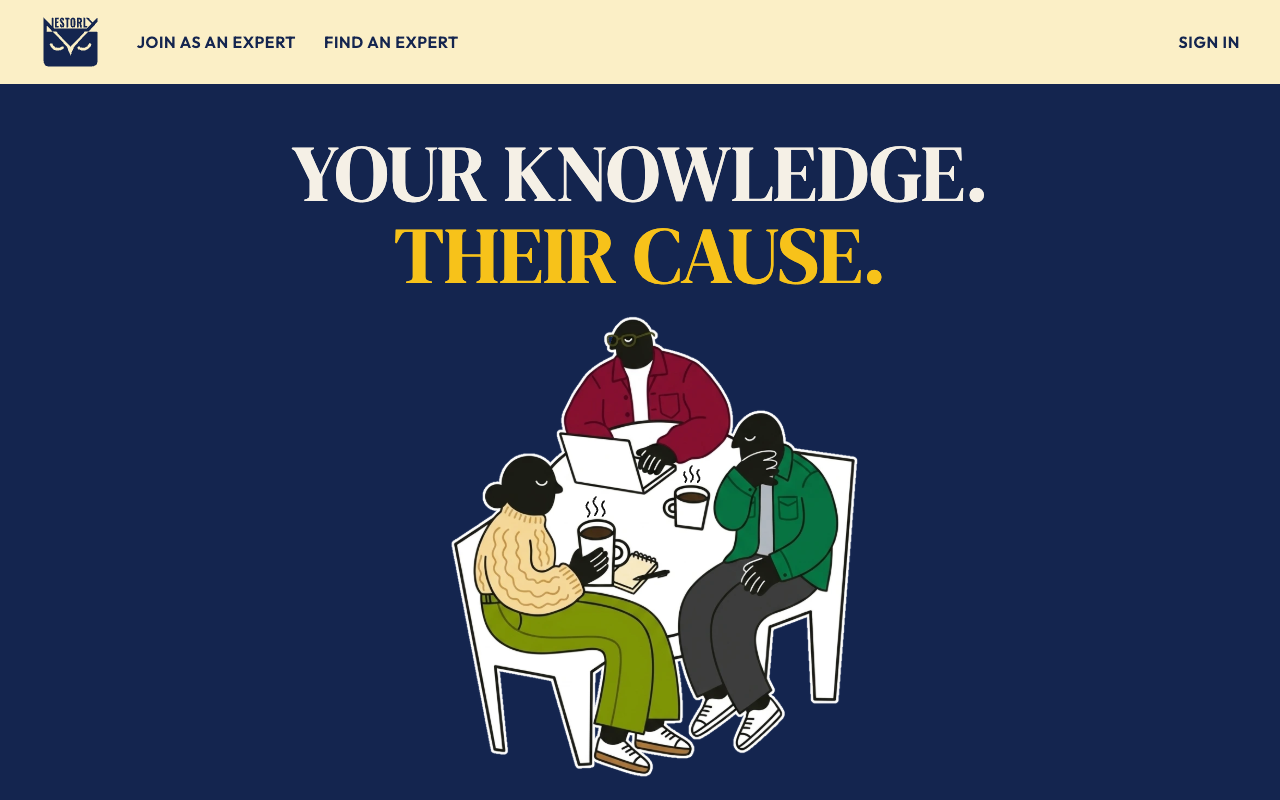
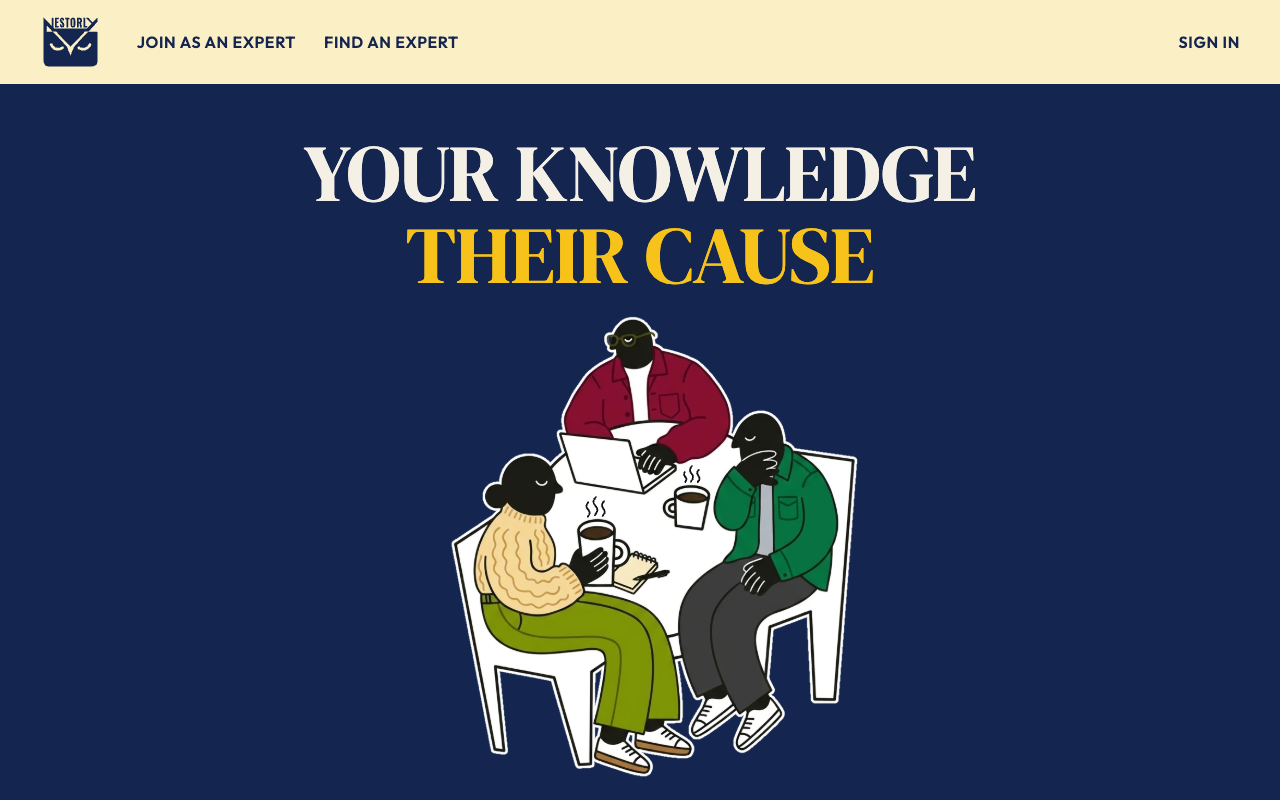
Homepage: no full stops in the headline; refresh cover image

Changed region(s): [[0.2188, 0.1562, 0.7812, 0.25], [0.3125, 0.2812, 0.6875, 0.375]]

diff --git a/index.html b/index.html
@@ -4,14 +4,14 @@
 <meta property="og:description" content="Experts share their knowledge; firms donate 100% to the expert’s chosen charity.">
 <meta property="og:url" content="https://luke-w-l-m.github.io/nestorly-prototype/">
 <meta property="og:type" content="website">
-<meta property="og:image" content="https://luke-w-l-m.github.io/nestorly-prototype/og-image.png?v=3">
+<meta property="og:image" content="https://luke-w-l-m.github.io/nestorly-prototype/og-image.png?v=4">
 <meta property="og:image:width" content="1200">
 <meta property="og:image:height" content="627">
 <meta property="og:image:alt" content="Specialise for charity: three people talking over coffee at a round table">
 <meta name="twitter:card" content="summary_large_image">
 <meta name="twitter:title" content="Nestorly: Specialise for charity">
 <meta name="twitter:description" content="Experts share their knowledge; firms donate 100% to the expert’s chosen charity.">
-<meta name="twitter:image" content="https://luke-w-l-m.github.io/nestorly-prototype/og-image.png?v=3">
+<meta name="twitter:image" content="https://luke-w-l-m.github.io/nestorly-prototype/og-image.png?v=4">
 <meta name="twitter:image:alt" content="Specialise for charity: three people talking over coffee at a round table"><title>Nestorly</title>
 <title>Nestorly Prototype</title>
 <meta name="claude:viewport-fit-sides" content="cover">
@@ -308,7 +308,7 @@ html{scroll-snap-type:y mandatory}
 
 <section class="snap phero gut" id="top" aria-label="Opening screen">
   <div class="inner">
-    <h1 class="ptitle"><span class="l1">Your knowledge.</span> <span class="l2">Their cause.</span></h1>
+    <h1 class="ptitle"><span class="l1">Your knowledge</span> <span class="l2">Their cause</span></h1>
     <div class="part">
       <picture>
         <source srcset="images/hero-art-outline.webp" type="image/webp">

diff --git a/create-profile.html b/create-profile.html
@@ -4,14 +4,14 @@
 <meta property="og:description" content="Experts share their knowledge; firms donate 100% to the expert’s chosen charity.">
 <meta property="og:url" content="https://luke-w-l-m.github.io/nestorly-prototype/create-profile.html">
 <meta property="og:type" content="website">
-<meta property="og:image" content="https://luke-w-l-m.github.io/nestorly-prototype/og-image.png?v=3">
+<meta property="og:image" content="https://luke-w-l-m.github.io/nestorly-prototype/og-image.png?v=4">
 <meta property="og:image:width" content="1200">
 <meta property="og:image:height" content="627">
 <meta property="og:image:alt" content="Specialise for charity: three people talking over coffee at a round table">
 <meta name="twitter:card" content="summary_large_image">
 <meta name="twitter:title" content="Nestorly: Specialise for charity">
 <meta name="twitter:description" content="Experts share their knowledge; firms donate 100% to the expert’s chosen charity.">
-<meta name="twitter:image" content="https://luke-w-l-m.github.io/nestorly-prototype/og-image.png?v=3">
+<meta name="twitter:image" content="https://luke-w-l-m.github.io/nestorly-prototype/og-image.png?v=4">
 <meta name="twitter:image:alt" content="Specialise for charity: three people talking over coffee at a round table">
 <title>Create your profile · Nestorly</title>
 <link rel="stylesheet" href="https://fonts.googleapis.com/css2?family=DM+Serif+Display&family=Outfit:wght@600;700&family=Source+Sans+3:wght@400;600;700&display=swap">

diff --git a/firm-signup.html b/firm-signup.html
@@ -4,14 +4,14 @@
 <meta property="og:description" content="Experts share their knowledge; firms donate 100% to the expert’s chosen charity.">
 <meta property="og:url" content="https://luke-w-l-m.github.io/nestorly-prototype/firm-signup.html">
 <meta property="og:type" content="website">
-<meta property="og:image" content="https://luke-w-l-m.github.io/nestorly-prototype/og-image.png?v=3">
+<meta property="og:image" content="https://luke-w-l-m.github.io/nestorly-prototype/og-image.png?v=4">
 <meta property="og:image:width" content="1200">
 <meta property="og:image:height" content="627">
 <meta property="og:image:alt" content="Specialise for charity: three people talking over coffee at a round table">
 <meta name="twitter:card" content="summary_large_image">
 <meta name="twitter:title" content="Nestorly: Specialise for charity">
 <meta name="twitter:description" content="Experts share their knowledge; firms donate 100% to the expert’s chosen charity.">
-<meta name="twitter:image" content="https://luke-w-l-m.github.io/nestorly-prototype/og-image.png?v=3">
+<meta name="twitter:image" content="https://luke-w-l-m.github.io/nestorly-prototype/og-image.png?v=4">
 <meta name="twitter:image:alt" content="Specialise for charity: three people talking over coffee at a round table">
 <title>Create a firm account · Nestorly</title>
 <link rel="stylesheet" href="https://fonts.googleapis.com/css2?family=DM+Serif+Display&family=Outfit:wght@600;700&family=Source+Sans+3:wght@400;600;700&display=swap">

diff --git a/expert-dashboard.html b/expert-dashboard.html
@@ -4,14 +4,14 @@
 <meta property="og:description" content="Experts share their knowledge; firms donate 100% to the expert’s chosen charity.">
 <meta property="og:url" content="https://luke-w-l-m.github.io/nestorly-prototype/expert-dashboard.html">
 <meta property="og:type" content="website">
-<meta property="og:image" content="https://luke-w-l-m.github.io/nestorly-prototype/og-image.png?v=3">
+<meta property="og:image" content="https://luke-w-l-m.github.io/nestorly-prototype/og-image.png?v=4">
 <meta property="og:image:width" content="1200">
 <meta property="og:image:height" content="627">
 <meta property="og:image:alt" content="Specialise for charity: three people talking over coffee at a round table">
 <meta name="twitter:card" content="summary_large_image">
 <meta name="twitter:title" content="Nestorly: Specialise for charity">
 <meta name="twitter:description" content="Experts share their knowledge; firms donate 100% to the expert’s chosen charity.">
-<meta name="twitter:image" content="https://luke-w-l-m.github.io/nestorly-prototype/og-image.png?v=3">
+<meta name="twitter:image" content="https://luke-w-l-m.github.io/nestorly-prototype/og-image.png?v=4">
 <meta name="twitter:image:alt" content="Specialise for charity: three people talking over coffee at a round table">
 <title>Your dashboard · Nestorly</title>
 <link rel="stylesheet" href="https://fonts.googleapis.com/css2?family=DM+Serif+Display&family=Outfit:wght@600;700&family=Source+Sans+3:wght@400;600;700&display=swap">

diff --git a/request.html b/request.html
@@ -4,14 +4,14 @@
 <meta property="og:description" content="Experts share their knowledge; firms donate 100% to the expert’s chosen charity.">
 <meta property="og:url" content="https://luke-w-l-m.github.io/nestorly-prototype/request.html">
 <meta property="og:type" content="website">
-<meta property="og:image" content="https://luke-w-l-m.github.io/nestorly-prototype/og-image.png?v=3">
+<meta property="og:image" content="https://luke-w-l-m.github.io/nestorly-prototype/og-image.png?v=4">
 <meta property="og:image:width" content="1200">
 <meta property="og:image:height" content="627">
 <meta property="og:image:alt" content="Specialise for charity: three people talking over coffee at a round table">
 <meta name="twitter:card" content="summary_large_image">
 <meta name="twitter:title" content="Nestorly: Specialise for charity">
 <meta name="twitter:description" content="Experts share their knowledge; firms donate 100% to the expert’s chosen charity.">
-<meta name="twitter:image" content="https://luke-w-l-m.github.io/nestorly-prototype/og-image.png?v=3">
+<meta name="twitter:image" content="https://luke-w-l-m.github.io/nestorly-prototype/og-image.png?v=4">
 <meta name="twitter:image:alt" content="Specialise for charity: three people talking over coffee at a round table">
 <title>Request a conversation · Nestorly</title>
 <link rel="stylesheet" href="https://fonts.googleapis.com/css2?family=DM+Serif+Display&family=Outfit:wght@600;700&family=Source+Sans+3:wght@400;600;700&display=swap">

diff --git a/firm-dashboard.html b/firm-dashboard.html
@@ -4,14 +4,14 @@
 <meta property="og:description" content="Experts share their knowledge; firms donate 100% to the expert’s chosen charity.">
 <meta property="og:url" content="https://luke-w-l-m.github.io/nestorly-prototype/firm-dashboard.html">
 <meta property="og:type" content="website">
-<meta property="og:image" content="https://luke-w-l-m.github.io/nestorly-prototype/og-image.png?v=3">
+<meta property="og:image" content="https://luke-w-l-m.github.io/nestorly-prototype/og-image.png?v=4">
 <meta property="og:image:width" content="1200">
 <meta property="og:image:height" content="627">
 <meta property="og:image:alt" content="Specialise for charity: three people talking over coffee at a round table">
 <meta name="twitter:card" content="summary_large_image">
 <meta name="twitter:title" content="Nestorly: Specialise for charity">
 <meta name="twitter:description" content="Experts share their knowledge; firms donate 100% to the expert’s chosen charity.">
-<meta name="twitter:image" content="https://luke-w-l-m.github.io/nestorly-prototype/og-image.png?v=3">
+<meta name="twitter:image" content="https://luke-w-l-m.github.io/nestorly-prototype/og-image.png?v=4">
 <meta name="twitter:image:alt" content="Specialise for charity: three people talking over coffee at a round table">
 <title>My bookings · Nestorly</title>
 <link rel="stylesheet" href="https://fonts.googleapis.com/css2?family=DM+Serif+Display&family=Outfit:wght@600;700&family=Source+Sans+3:wght@400;600;700&display=swap">

diff --git a/legal.html b/legal.html
@@ -4,14 +4,14 @@
 <meta property="og:description" content="Experts share their knowledge; firms donate 100% to the expert’s chosen charity.">
 <meta property="og:url" content="https://luke-w-l-m.github.io/nestorly-prototype/legal.html">
 <meta property="og:type" content="website">
-<meta property="og:image" content="https://luke-w-l-m.github.io/nestorly-prototype/og-image.png?v=3">
+<meta property="og:image" content="https://luke-w-l-m.github.io/nestorly-prototype/og-image.png?v=4">
 <meta property="og:image:width" content="1200">
 <meta property="og:image:height" content="627">
 <meta property="og:image:alt" content="Specialise for charity: three people talking over coffee at a round table">
 <meta name="twitter:card" content="summary_large_image">
 <meta name="twitter:title" content="Nestorly: Specialise for charity">
 <meta name="twitter:description" content="Experts share their knowledge; firms donate 100% to the expert’s chosen charity.">
-<meta name="twitter:image" content="https://luke-w-l-m.github.io/nestorly-prototype/og-image.png?v=3">
+<meta name="twitter:image" content="https://luke-w-l-m.github.io/nestorly-prototype/og-image.png?v=4">
 <meta name="twitter:image:alt" content="Specialise for charity: three people talking over coffee at a round table">
 <title>Terms and policies · Nestorly</title>
 <link rel="stylesheet" href="https://fonts.googleapis.com/css2?family=DM+Serif+Display&family=Outfit:wght@600;700&family=Source+Sans+3:wght@400;600;700&display=swap">

diff --git a/join.html b/join.html
@@ -4,14 +4,14 @@
 <meta property="og:description" content="Experts share their knowledge; firms donate 100% to the expert’s chosen charity.">
 <meta property="og:url" content="https://luke-w-l-m.github.io/nestorly-prototype/join.html">
 <meta property="og:type" content="website">
-<meta property="og:image" content="https://luke-w-l-m.github.io/nestorly-prototype/og-image.png?v=3">
+<meta property="og:image" content="https://luke-w-l-m.github.io/nestorly-prototype/og-image.png?v=4">
 <meta property="og:image:width" content="1200">
 <meta property="og:image:height" content="627">
 <meta property="og:image:alt" content="Specialise for charity: three people talking over coffee at a round table">
 <meta name="twitter:card" content="summary_large_image">
 <meta name="twitter:title" content="Nestorly: Specialise for charity">
 <meta name="twitter:description" content="Experts share their knowledge; firms donate 100% to the expert’s chosen charity.">
-<meta name="twitter:image" content="https://luke-w-l-m.github.io/nestorly-prototype/og-image.png?v=3">
+<meta name="twitter:image" content="https://luke-w-l-m.github.io/nestorly-prototype/og-image.png?v=4">
 <meta name="twitter:image:alt" content="Specialise for charity: three people talking over coffee at a round table">
 <title>Join as an expert · Nestorly</title>
 <link rel="stylesheet" href="https://fonts.googleapis.com/css2?family=DM+Serif+Display&family=Outfit:wght@600;700&family=Source+Sans+3:wght@400;600;700&display=swap">

diff --git a/find.html b/find.html
@@ -4,14 +4,14 @@
 <meta property="og:description" content="Experts share their knowledge; firms donate 100% to the expert’s chosen charity.">
 <meta property="og:url" content="https://luke-w-l-m.github.io/nestorly-prototype/find.html">
 <meta property="og:type" content="website">
-<meta property="og:image" content="https://luke-w-l-m.github.io/nestorly-prototype/og-image.png?v=3">
+<meta property="og:image" content="https://luke-w-l-m.github.io/nestorly-prototype/og-image.png?v=4">
 <meta property="og:image:width" content="1200">
 <meta property="og:image:height" content="627">
 <meta property="og:image:alt" content="Specialise for charity: three people talking over coffee at a round table">
 <meta name="twitter:card" content="summary_large_image">
 <meta name="twitter:title" content="Nestorly: Specialise for charity">
 <meta name="twitter:description" content="Experts share their knowledge; firms donate 100% to the expert’s chosen charity.">
-<meta name="twitter:image" content="https://luke-w-l-m.github.io/nestorly-prototype/og-image.png?v=3">
+<meta name="twitter:image" content="https://luke-w-l-m.github.io/nestorly-prototype/og-image.png?v=4">
 <meta name="twitter:image:alt" content="Specialise for charity: three people talking over coffee at a round table">
 <title>Find an expert · Nestorly</title>
 <link rel="stylesheet" href="https://fonts.googleapis.com/css2?family=DM+Serif+Display&family=Outfit:wght@600;700&family=Source+Sans+3:wght@400;600;700&display=swap">

diff --git a/call.html b/call.html
@@ -4,14 +4,14 @@
 <meta property="og:description" content="Experts share their knowledge; firms donate 100% to the expert’s chosen charity.">
 <meta property="og:url" content="https://luke-w-l-m.github.io/nestorly-prototype/call.html">
 <meta property="og:type" content="website">
-<meta property="og:image" content="https://luke-w-l-m.github.io/nestorly-prototype/og-image.png?v=3">
+<meta property="og:image" content="https://luke-w-l-m.github.io/nestorly-prototype/og-image.png?v=4">
 <meta property="og:image:width" content="1200">
 <meta property="og:image:height" content="627">
 <meta property="og:image:alt" content="Specialise for charity: three people talking over coffee at a round table">
 <meta name="twitter:card" content="summary_large_image">
 <meta name="twitter:title" content="Nestorly: Specialise for charity">
 <meta name="twitter:description" content="Experts share their knowledge; firms donate 100% to the expert’s chosen charity.">
-<meta name="twitter:image" content="https://luke-w-l-m.github.io/nestorly-prototype/og-image.png?v=3">
+<meta name="twitter:image" content="https://luke-w-l-m.github.io/nestorly-prototype/og-image.png?v=4">
 <meta name="twitter:image:alt" content="Specialise for charity: three people talking over coffee at a round table">
 <title>Video call · Nestorly</title>
 <link rel="stylesheet" href="https://fonts.googleapis.com/css2?family=DM+Serif+Display&family=Outfit:wght@600;700&family=Source+Sans+3:wght@400;600;700&display=swap">

diff --git a/signin.html b/signin.html
@@ -4,14 +4,14 @@
 <meta property="og:description" content="Experts share their knowledge; firms donate 100% to the expert’s chosen charity.">
 <meta property="og:url" content="https://luke-w-l-m.github.io/nestorly-prototype/signin.html">
 <meta property="og:type" content="website">
-<meta property="og:image" content="https://luke-w-l-m.github.io/nestorly-prototype/og-image.png?v=3">
+<meta property="og:image" content="https://luke-w-l-m.github.io/nestorly-prototype/og-image.png?v=4">
 <meta property="og:image:width" content="1200">
 <meta property="og:image:height" content="627">
 <meta property="og:image:alt" content="Specialise for charity: three people talking over coffee at a round table">
 <meta name="twitter:card" content="summary_large_image">
 <meta name="twitter:title" content="Nestorly: Specialise for charity">
 <meta name="twitter:description" content="Experts share their knowledge; firms donate 100% to the expert’s chosen charity.">
-<meta name="twitter:image" content="https://luke-w-l-m.github.io/nestorly-prototype/og-image.png?v=3">
+<meta name="twitter:image" content="https://luke-w-l-m.github.io/nestorly-prototype/og-image.png?v=4">
 <meta name="twitter:image:alt" content="Specialise for charity: three people talking over coffee at a round table">
 <title>Sign in · Nestorly</title>
 <link rel="stylesheet" href="https://fonts.googleapis.com/css2?family=DM+Serif+Display&family=Outfit:wght@600;700&family=Source+Sans+3:wght@400;600;700&display=swap">

diff --git a/emails.html b/emails.html
@@ -4,14 +4,14 @@
 <meta property="og:description" content="Experts share their knowledge; firms donate 100% to the expert’s chosen charity.">
 <meta property="og:url" content="https://luke-w-l-m.github.io/nestorly-prototype/emails.html">
 <meta property="og:type" content="website">
-<meta property="og:image" content="https://luke-w-l-m.github.io/nestorly-prototype/og-image.png?v=3">
+<meta property="og:image" content="https://luke-w-l-m.github.io/nestorly-prototype/og-image.png?v=4">
 <meta property="og:image:width" content="1200">
 <meta property="og:image:height" content="627">
 <meta property="og:image:alt" content="Specialise for charity: three people talking over coffee at a round table">
 <meta name="twitter:card" content="summary_large_image">
 <meta name="twitter:title" content="Nestorly: Specialise for charity">
 <meta name="twitter:description" content="Experts share their knowledge; firms donate 100% to the expert’s chosen charity.">
-<meta name="twitter:image" content="https://luke-w-l-m.github.io/nestorly-prototype/og-image.png?v=3">
+<meta name="twitter:image" content="https://luke-w-l-m.github.io/nestorly-prototype/og-image.png?v=4">
 <meta name="twitter:image:alt" content="Specialise for charity: three people talking over coffee at a round table">
 <title>Emails · Nestorly</title>
 <link rel="stylesheet" href="https://fonts.googleapis.com/css2?family=DM+Serif+Display&family=Outfit:wght@600;700&family=Source+Sans+3:wght@400;600;700&display=swap">
